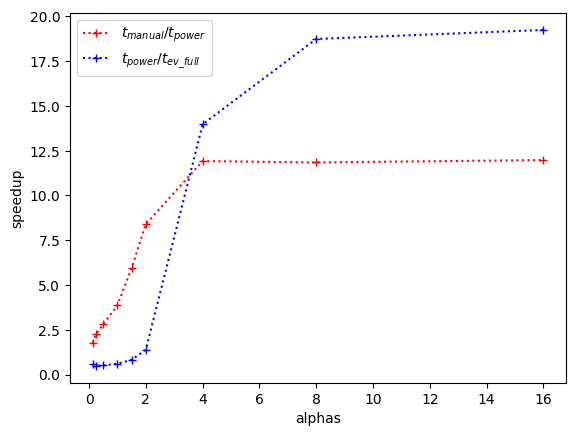
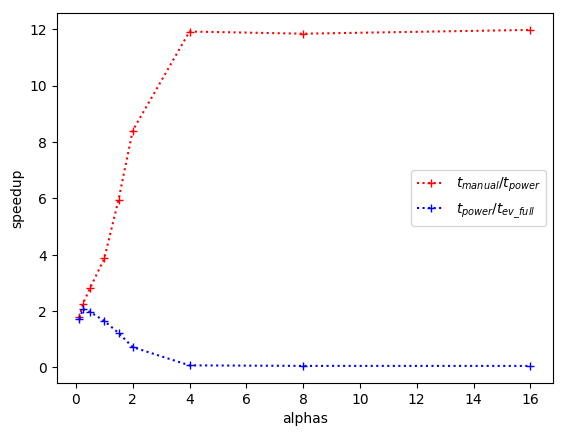
Fix error in speedup calculation

diff --git a/exercise05/power_method/plot.py b/exercise05/power_method/plot.py
@@ -27,7 +27,7 @@ plt.savefig('run_times.png', bbox_inches='tight')
 plt.close()
 
 speedup_blas = np.divide(run_times_no_blas, run_times_blas)
-speedup_lapack = np.divide(run_times_blas, run_times_lapack)
+speedup_lapack = np.divide(run_times_lapack, run_times_blas)
 
 plt.plot(alphas, speedup_blas, 'r+:', label='$t_{manual}/t_{power}$')
 plt.plot(alphas, speedup_lapack, 'b+:', label='$t_{power}/t_{ev\_full}$')
